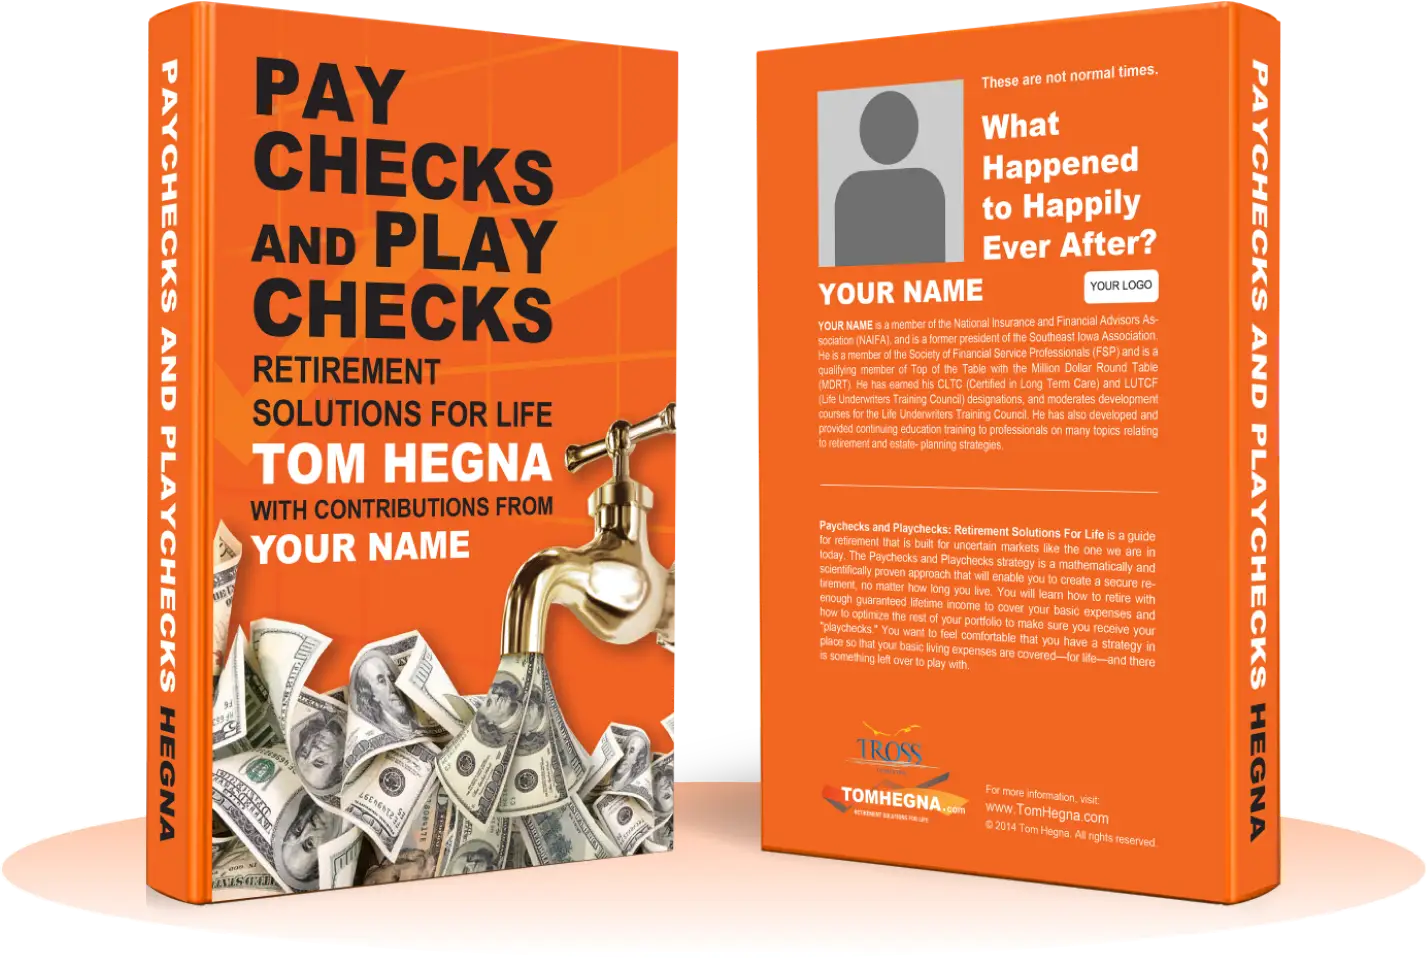
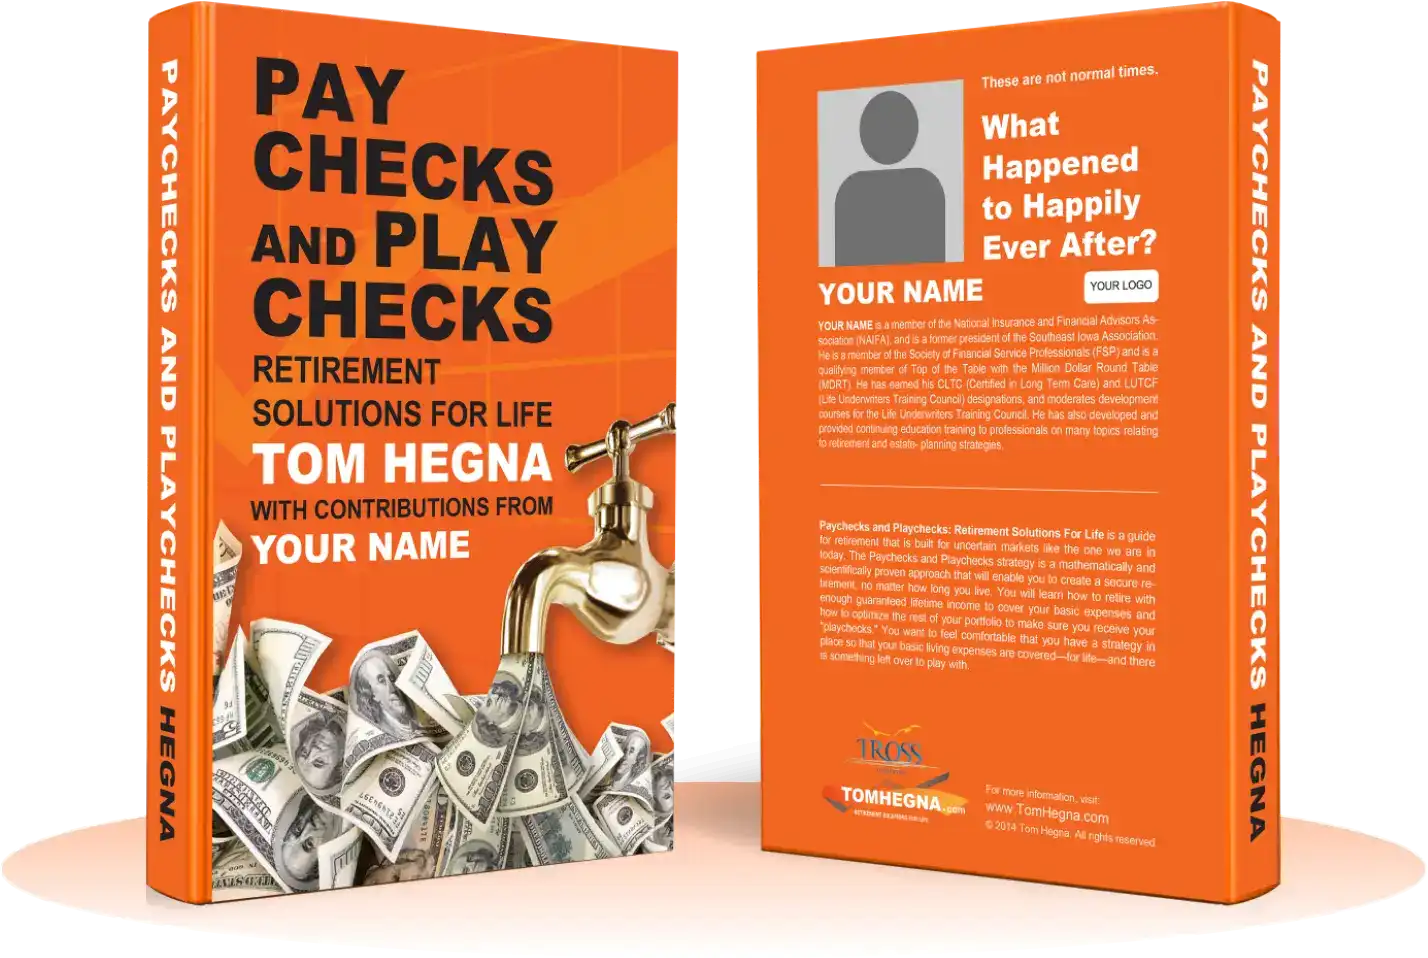
iamge optimaizted

diff --git a/styles/home/banner.module.scss b/styles/home/banner.module.scss
@@ -1,155 +1,178 @@
 .mainBanner {
-    height: 870px;
-    background-repeat: no-repeat;
-    background-position: center right;
-    background-size: 1040px auto;
-    overflow: hidden;
-
-    .bannerLogo {
-        margin-top: 30px;
-    }
+  height: 870px;
+  //   background-repeat: no-repeat;
+  //   background-position: center right;
+  //   background-size: 1040px auto;
+  overflow: hidden;
+  position: relative;
+  .bannerMainImage {
+    position: absolute;
+    right: 0px;
+    width: 100%;
+    height: 100%;
+    max-width: 980px;
+  }
+  .bannerLogo {
+    margin-top: 30px;
+  }
 }
 
-
 @media only screen and (min-width: 1400px) and (max-width: 1600px) {
-    .mainBanner {
-        height: 700px;
-        background-size: 850px auto;
+  .mainBanner {
+    height: 700px;
+    // background-size: 850px auto;
 
-        .bannerTxt {
-            padding-right: 50px;
-        }
-
-        .bannerLogo {
-            margin-top: 30px;
-
-            img {
-                height: 25px;
-                width: auto;
-            }
-        }
+    .bannerTxt {
+      padding-right: 50px;
     }
+    .bannerMainImage {
+      max-width: 850px;
+    }
+    .bannerLogo {
+      margin-top: 30px;
+
+      img {
+        height: 25px;
+        width: auto;
+      }
+    }
+  }
 }
 
 @media only screen and (min-width: 1300px) and (max-width: 1399px) {
-    .mainBanner {
-        height: 680px;
-        background-size: 810px auto;
+  .mainBanner {
+    height: 680px;
+    background-size: 810px auto;
 
-        .bannerTxt {
-            padding-right: 50px;
-        }
-
-        .bannerLogo {
-            margin-top: 30px;
-
-            img {
-                height: 24px;
-                width: auto;
-            }
-        }
+    .bannerTxt {
+      padding-right: 50px;
     }
+    .bannerMainImage {
+      max-width: 800px;
+    }
+    .bannerLogo {
+      margin-top: 30px;
+
+      img {
+        height: 24px;
+        width: auto;
+      }
+    }
+  }
 }
 
 @media only screen and (min-width: 1100px) and (max-width: 1299px) {
-    .mainBanner {
-        height: 600px;
-        background-size: 720px auto;
+  .mainBanner {
+    height: 600px;
+    background-size: 720px auto;
 
-        .bannerTxt {
-            padding-right: 50px;
-        }
-
-        .bannerLogo {
-            margin-top: 30px;
-
-            img {
-                height: 22px;
-                width: auto;
-            }
-        }
+    .bannerTxt {
+      padding-right: 50px;
+      padding-top: 50px;
     }
+    .bannerMainImage {
+      max-width: 750px;
+    }
+    .bannerLogo {
+      margin-top: 30px;
+
+      img {
+        height: 22px;
+        width: auto;
+      }
+    }
+  }
 }
 
-@media only screen and (min-width: 900px) and (max-width:1099px) {
-    .mainBanner {
-        height: 520px;
-        background-size: 620px auto;
+@media only screen and (min-width: 900px) and (max-width: 1099px) {
+  .mainBanner {
+    height: 520px;
+    background-size: 620px auto;
 
-        .bannerTxt {
-            padding-right: 50px;
-        }
-
-        .bannerLogo {
-            margin-top: 30px;
-
-            img {
-                height: 20px;
-                width: auto;
-            }
-        }
+    .bannerTxt {
+      padding-right: 50px;
+      margin-top: 50px;
     }
+    .bannerMainImage {
+      max-width: 620px;
+    }
+    .bannerLogo {
+      margin-top: 20px;
+
+      img {
+        height: 20px;
+        width: auto;
+      }
+    }
+  }
 }
 
-@media only screen and (min-width: 768px) and (max-width:899px) {
-    .mainBanner {
-        height: 500px;
-        background-size: 600px auto;
-        background-position: 220%;
+@media only screen and (min-width: 768px) and (max-width: 899px) {
+  .mainBanner {
+    height: 500px;
+    // background-size: 600px auto;
+    // background-position: 220%;
 
-        .bannerTxt {
-            padding-right: 50px;
-        }
-
-        .bannerLogo {
-            margin-top: 20px;
-
-            img {
-                height: 18px;
-                width: auto;
-            }
-        }
+    .bannerTxt {
+      padding-right: 0px;
+      padding-top: 50px;
     }
+    .bannerMainImage {
+      max-width: 380px;
+    }
+    .bannerLogo {
+      margin-top: 20px;
+
+      img {
+        height: 18px;
+        width: auto;
+      }
+    }
+  }
 }
 
-@media only screen and (min-width: 576px) and (max-width:767px) {
-    .mainBanner {
-        height: auto;
-        padding: 100px 0px 50px;
-        background: none;
+@media only screen and (min-width: 576px) and (max-width: 767px) {
+  .mainBanner {
+    height: auto;
+    padding: 100px 0px 50px;
+    background: none;
 
-        .bannerTxt {
-            padding-right: 50px;
-        }
-
-        .bannerLogo {
-            margin-top: 20px;
-
-            img {
-                height: 18px;
-                width: auto;
-            }
-        }
+    .bannerTxt {
+      padding-right: 50px;
     }
+    .bannerMainImage {
+      display: none;
+    }
+    .bannerLogo {
+      margin-top: 20px;
+
+      img {
+        height: 18px;
+        width: auto;
+      }
+    }
+  }
 }
 
 @media only screen and (min-width: 0px) and (max-width: 575px) {
-    .mainBanner {
-        height: auto;
-        padding: 90px 0px 30px;
-        background: none;
+  .mainBanner {
+    height: auto;
+    padding: 90px 0px 30px;
+    background: none;
 
-        .bannerTxt {
-            padding-right: 0px;
-        }
-
-        .bannerLogo {
-            margin-top: 20px;
-
-            img {
-                height: 16px;
-                width: auto;
-            }
-        }
+    .bannerTxt {
+      padding-right: 0px;
     }
+    .bannerMainImage {
+      display: none;
+    }
+    .bannerLogo {
+      margin-top: 20px;
+
+      img {
+        height: 16px;
+        width: auto;
+      }
+    }
+  }
 }

diff --git a/src/app/home/whychoose.jsx b/src/app/home/whychoose.jsx
@@ -1,5 +1,6 @@
 import { Col, Container, Row } from "react-bootstrap"
 import styles from "@/styles/home/whychoose.module.scss"
+import Image from "next/image"
 
 
 const WhyChoose = ({ data, spcring }) => {
@@ -15,7 +16,7 @@ const WhyChoose = ({ data, spcring }) => {
                     <Col md={12}>
                         <div className={`${spcring ? styles.Spcring : ""} ${styles.whychooseContainer}`}>
                             <div className={styles.whychooseImg}>
-                                <img src={data.img} alt="Book Image" width={1428} height={958} />
+                                <Image src={data.img} alt="Book Image" width={1428} height={958} />
                                 {data.ProcessDataItem.map((item, index) => (
                                     <div className={`${styles.whychooseBox} ${styles[`box${index + 1}`]}`} key={index}>
                                         {item.title}

diff --git a/src/app/home/banner.jsx b/src/app/home/banner.jsx
@@ -7,10 +7,17 @@ import Image from 'next/image'
 
 const Banner = () => {
     return (
-        <section className={styles.mainBanner} style={{ backgroundImage: `url(${BannerImg.src})` }}>
+        <section className={styles.mainBanner} >
+            <Image
+                src={BannerImg}
+                alt="Banner Background"
+                priority
+                sizes="100vw"
+                className={styles.bannerMainImage}
+            />
             <Container className="h-100">
                 <Row className="h-100">
-                    <Col md={8} lg={6} className="my-auto">
+                    <Col md={7} lg={6} className="my-auto">
                         <div className={styles.bannerTxt}>
                             <h1>Don’t Stress the Writing,<br className="d-md-block d-none" />
                                 We’ll Make It Exciting!</h1>
